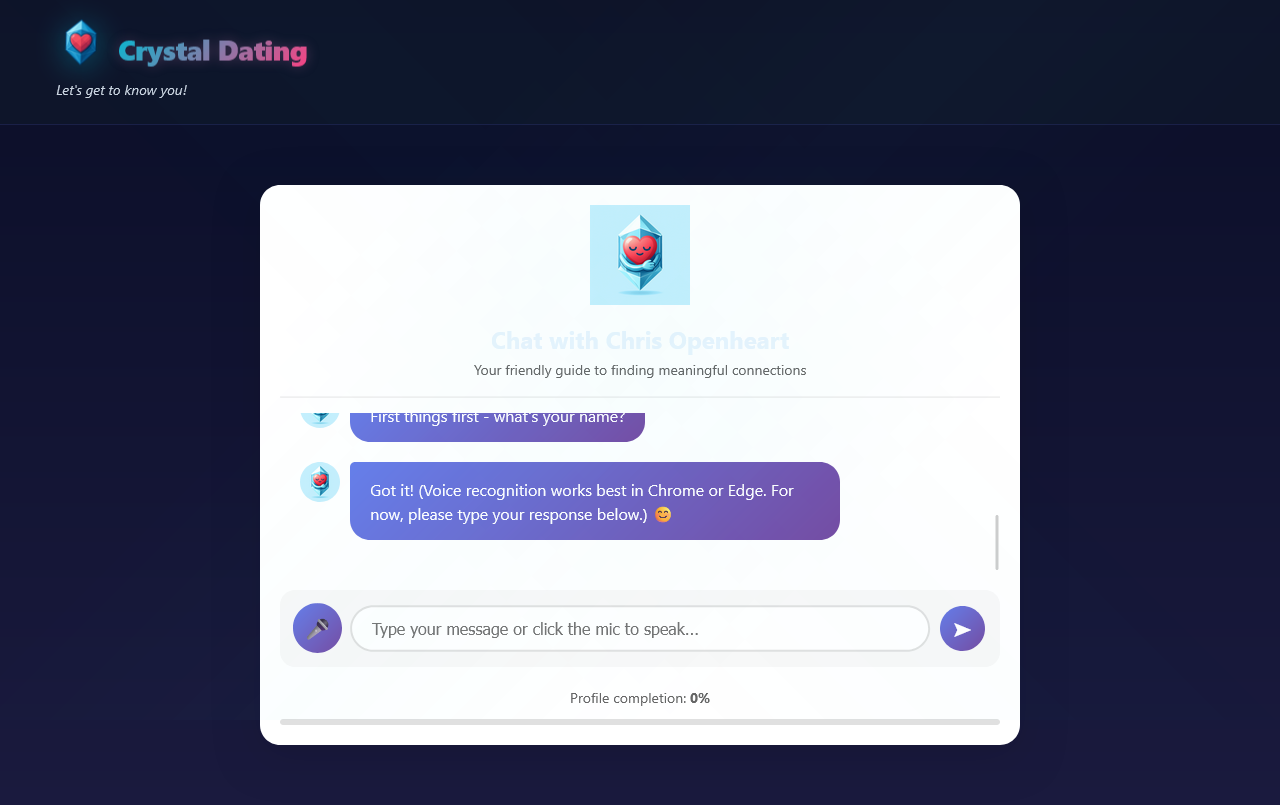
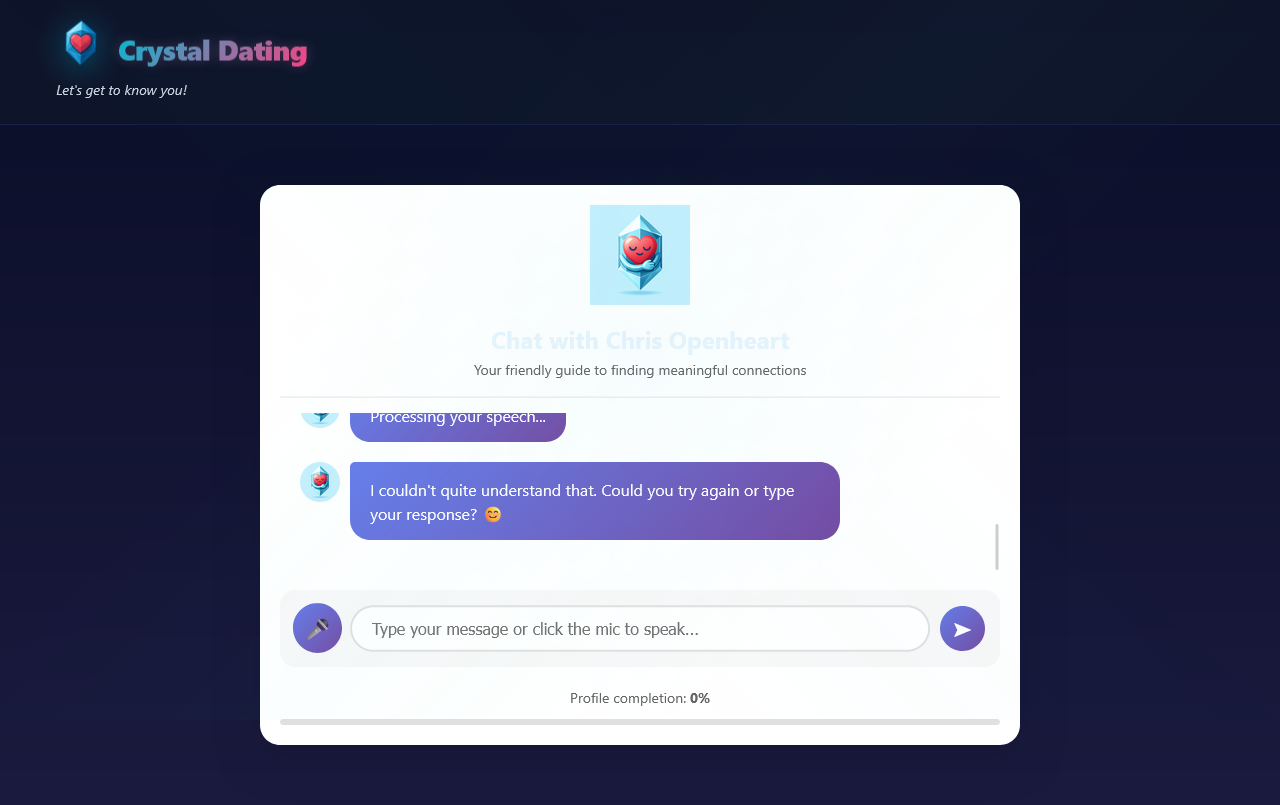
fix: Use distil-whisper with direct API call for transcription
- Switch from HfInference SDK to direct API calls
- Use distil-whisper/distil-large-v3 (optimized for speed)
- Send audio directly to HF Inference API
- More reliable than trying multiple models sequentially
- Works with free HF tier

🤖 Generated with [Claude Code](https://claude.ai/code)

Changed region(s): [[0.2812, 0.5901, 0.625, 0.6522], [0.2812, 0.4969, 0.5, 0.559]]

diff --git a/src/server/simpleServer.js b/src/server/simpleServer.js
@@ -425,20 +425,29 @@ app.post('/api/transcribe', upload.single('audio'), async (req, res) => {
       return res.status(400).json({ error: 'No audio file provided' });
     }
 
-    // Initialize Hugging Face Inference API
-    // Note: HF_TOKEN should be in environment variables
-    // For free tier, we use the public inference API
-    const hf = new HfInference(process.env.HF_TOKEN);
-
     console.log(`🎤 Transcribing audio: ${req.file.size} bytes, ${req.file.mimetype}`);
 
-    // Use Whisper model for transcription
-    const result = await hf.automaticSpeechRecognition({
-      data: req.file.buffer,
-      model: 'openai/whisper-base' // Using base model for faster free-tier inference
+    // Use Hugging Face Inference API directly with fetch
+    // Using distil-whisper which is optimized for speed
+    const API_URL = 'https://api-inference.huggingface.co/models/distil-whisper/distil-large-v3';
+
+    const response = await fetch(API_URL, {
+      method: 'POST',
+      headers: {
+        'Authorization': `Bearer ${process.env.HF_TOKEN}`,
+        'Content-Type': 'audio/webm'
+      },
+      body: req.file.buffer
     });
 
-    console.log(`✅ Transcription: "${result.text}"`);
+    if (!response.ok) {
+      const errorText = await response.text();
+      console.error(`API error: ${response.status} - ${errorText}`);
+      throw new Error(`HF API returned ${response.status}: ${errorText}`);
+    }
+
+    const result = await response.json();
+    console.log(`✅ Transcription result:`, result);
 
     res.json({
       success: true,

diff --git a/test-transcription-api.js b/test-transcription-api.js
@@ -1,0 +1,41 @@
+const fs = require('fs');
+const FormData = require('form-data');
+const fetch = (...args) => import('node-fetch').then(({default: fetch}) => fetch(...args));
+
+(async () => {
+  console.log('Testing transcription API endpoint...\n');
+
+  // Create a simple test audio file (empty WebM for testing)
+  const testAudio = Buffer.from([
+    0x1a, 0x45, 0xdf, 0xa3, // EBML header
+    0x00, 0x00, 0x00, 0x20  // Minimal WebM structure
+  ]);
+
+  const formData = new FormData();
+  formData.append('audio', testAudio, {
+    filename: 'test.webm',
+    contentType: 'audio/webm'
+  });
+
+  try {
+    console.log('Sending request to deployed API...');
+    const response = await fetch('https://prealpha.crystalapp.org/api/transcribe', {
+      method: 'POST',
+      body: formData,
+      headers: formData.getHeaders()
+    });
+
+    console.log('Response status:', response.status);
+    const result = await response.json();
+    console.log('Response body:', JSON.stringify(result, null, 2));
+
+    if (result.success) {
+      console.log('\n✅ SUCCESS: Transcription endpoint working!');
+    } else {
+      console.log('\n❌ FAILED:', result.error || result.message);
+    }
+
+  } catch (error) {
+    console.error('\n❌ ERROR:', error.message);
+  }
+})();
